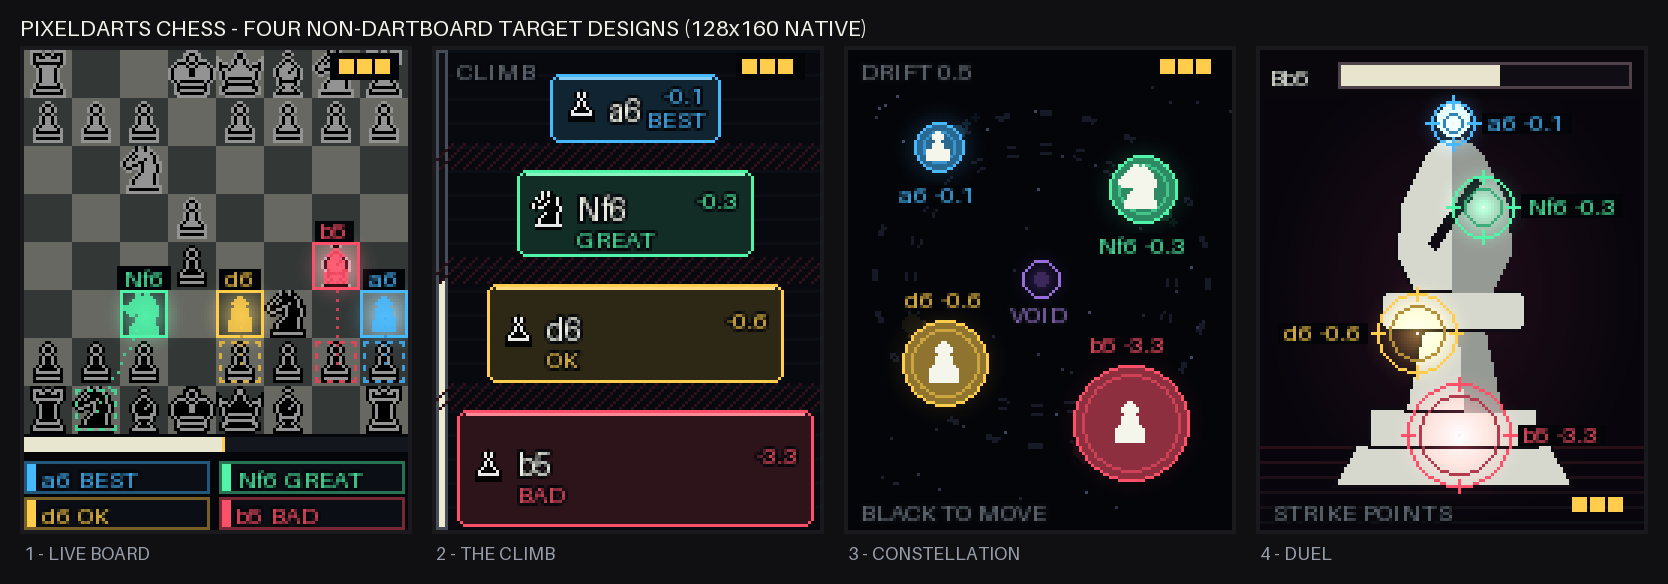
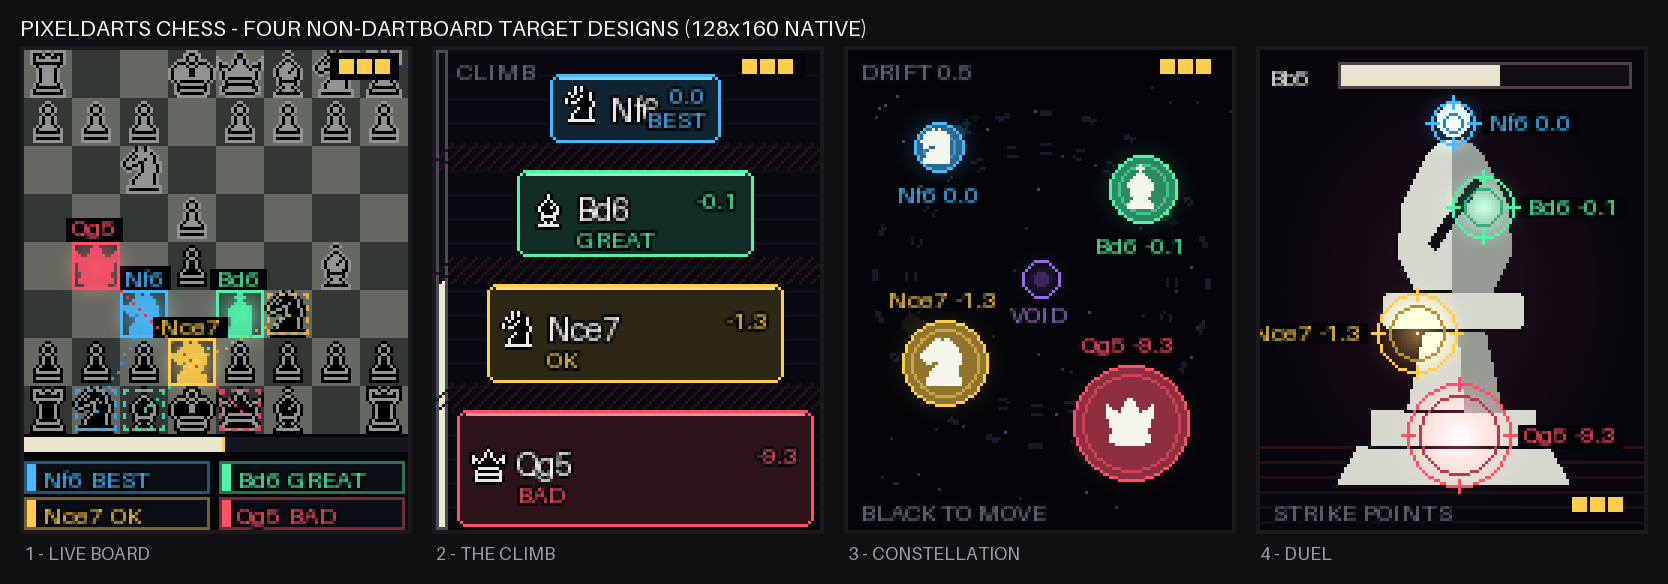
Fix illegal candidate move in design mockups
The blunder candidate was b7b5, which is not legal in the sample position
because White's bishop stands on b5. Replace the candidate set with four
moves verified against the legal move generator and re-render every sheet.

diff --git a/docs/design/render_concepts.py b/docs/design/render_concepts.py
@@ -43,12 +43,13 @@ FONT_BIG = ImageFont.load_default(size=16)
 
 FEN = "r1bqkbnr/pppp1ppp/2n5/1B2p3/4P3/5N2/PPPP1PPP/RNBQK2R b KQkq - 3 3"
 
-# Ruy Lopez, Black to move. One candidate per engine quality bucket.
+# Ruy Lopez, Black to move. One candidate per quality bucket, all verified
+# legal in FEN and ranked by docs/design/render_targeting.py.
 TARGETS = [
-    {"quality": "BEST", "color": BLUE, "san": "a6", "uci": "a7a6", "loss": "-0.1", "piece": "p"},
-    {"quality": "GREAT", "color": GREEN, "san": "Nf6", "uci": "g8f6", "loss": "-0.3", "piece": "n"},
-    {"quality": "OK", "color": GOLD, "san": "d6", "uci": "d7d6", "loss": "-0.6", "piece": "p"},
-    {"quality": "BAD", "color": RED, "san": "b5", "uci": "b7b5", "loss": "-3.3", "piece": "p"},
+    {"quality": "BEST", "color": BLUE, "san": "Nf6", "uci": "g8f6", "loss": "0.0", "piece": "n"},
+    {"quality": "GREAT", "color": GREEN, "san": "Bd6", "uci": "f8d6", "loss": "-0.1", "piece": "b"},
+    {"quality": "OK", "color": GOLD, "san": "Nce7", "uci": "c6e7", "loss": "-1.3", "piece": "n"},
+    {"quality": "BAD", "color": RED, "san": "Qg5", "uci": "d8g5", "loss": "-9.3", "piece": "q"},
 ]
 
 ASSETS = PieceAssets()
@@ -289,18 +290,18 @@ def concept_live_board_resolve():
 
     target = TARGETS[0]
     color = target["color"]
-    tc, tr = view_cell("a6")
+    tc, tr = view_cell(target["uci"][2:])
     tx, ty = cell_center(tc, tr)
-    fc, fr = view_cell("a7")
+    fc, fr = view_cell(target["uci"][:2])
     fx, fy = cell_center(fc, fr)
 
     add_glow(img, tx, ty, 20, color, strength=0.7)
     draw = ImageDraw.Draw(img)
     dashed_circle(draw, tx, ty, 20, shade(color, 0.75))
-    plate_text(draw, tx - 14, ty - 24, "SNAP 20px", shade(color, 0.95), anchor="mm")
+    plate_text(draw, tx + 6, ty - 24, "SNAP 20px", shade(color, 0.95), anchor="mm")
     draw.rectangle((tc * 16, tr * 16, tc * 16 + 15, tr * 16 + 15), outline=WHITE)
     dashed_rect(draw, (fc * 16 + 1, fr * 16 + 1, fc * 16 + 14, fr * 16 + 14), shade(color, 0.7))
-    paste_centered(img, sprite("p", 14, tint=WHITE), tx, ty)
+    paste_centered(img, sprite(target["piece"], 14, tint=WHITE), tx, ty)
 
     hit_x, hit_y = tx - 13, ty + 12
     draw.line((hit_x, hit_y, tx - 2, ty + 2), fill=shade(color, 0.95))
@@ -312,7 +313,7 @@ def concept_live_board_resolve():
     live_board_strip(
         img,
         draw,
-        [("a6 LOCKED", BLUE), ("BEST -0.1", WHITE), ("OFF 16px", DIM), ("WHITE NEXT", GOLD)],
+        [("Nf6 LOCKED", BLUE), ("BEST 0.0", WHITE), ("OFF 18px", DIM), ("WHITE NEXT", GOLD)],
         white_share=0.5,
     )
     return img
@@ -486,7 +487,7 @@ def concept_constellation_hit():
     draw.ellipse((cx - 6, cy - 6, cx + 6, cy + 6), outline=(70, 55, 100))
 
     for orb in ORBS:
-        if orb["target"]["san"] == "Nf6":
+        if orb["target"]["quality"] == "GREAT":
             continue
         draw = draw_orb(img, draw, orb, dim=0.34, trail=False)
 
@@ -511,7 +512,7 @@ def concept_constellation_hit():
 
     draw.rectangle((0, 134, WIDTH - 1, HEIGHT - 1), fill=(4, 5, 9))
     draw.line((0, 134, WIDTH - 1, 134), fill=shade(GREEN, 0.5))
-    text(draw, (64, 143), "Nf6  GREAT", FONT_MED, GREEN, anchor="mm")
+    text(draw, (64, 143), "Bd6  GREAT", FONT_MED, GREEN, anchor="mm")
     text(draw, (64, 153), "lead 0.4s", FONT_TINY, DIM, anchor="mm")
     return img
 
@@ -627,7 +628,7 @@ def concept_duel_hit():
     duel_boss(img, draw, offset=2, damaged=True)
     duel_hp_bar(draw, 0.44, delta=0.12)
     for point in DUEL_POINTS:
-        if point["target"]["san"] == "d6":
+        if point["target"]["quality"] == "OK":
             continue
         side = "right" if point["pos"][0] >= 64 else "left"
         draw = duel_weak_point(img, draw, point, dim=0.22, label_side=side)
@@ -652,8 +653,8 @@ def concept_duel_hit():
 
     draw.rectangle((0, 138, WIDTH - 1, HEIGHT - 1), fill=(10, 8, 12))
     draw.line((0, 138, WIDTH - 1, 138), fill=GOLD)
-    text(draw, (64, 146), "d6  OK", FONT_MED, GOLD, anchor="mm")
-    text(draw, (64, 155), "-0.5  WHITE NEXT", FONT_TINY, DIM, anchor="mm")
+    text(draw, (64, 146), "Nce7  OK", FONT_MED, GOLD, anchor="mm")
+    text(draw, (64, 155), "-1.3  WHITE NEXT", FONT_TINY, DIM, anchor="mm")
     return img
 
 
